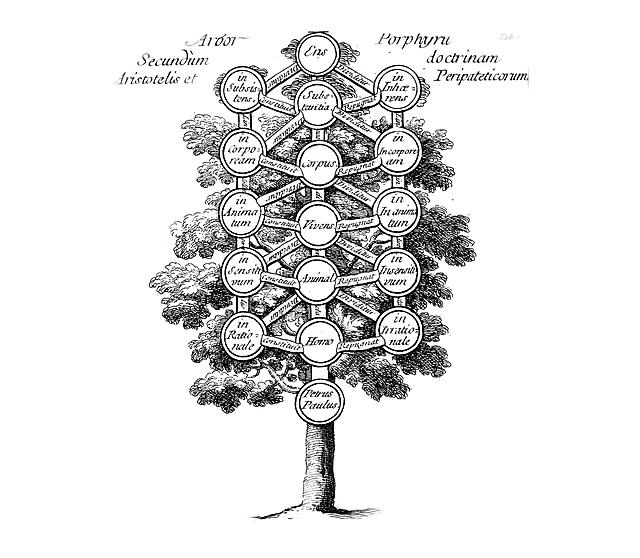
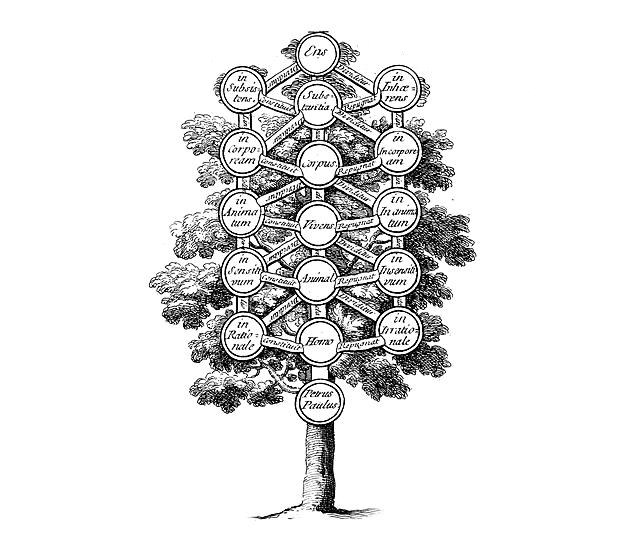
Work pages: name and year in the facts list; Categories plate without its lettering; bar in the column on every page
John, 14 Nov:
- Facts list shows name and year only (publisher goes to full entries at
  the page foot, next commit); Jowett keeps 'rev.', drops Ross.
- Ellis is a 1912 reprint, not a revision: '(1776; repr. 1912)'.
- Categories plate: the lettering outside the tree painted out of the
  shipped desk and phone cuts (the dark cut-out already omitted it); ink
  box re-measured to the tree; plate hashes updated.
- The bar keeps to the 1168px column on search and lexicon too (b.css,
  one rule); the logo no longer jumps between pages at wide widths.
- De Mirabilibus: short title in the home list (new listTitle field).

Changed region(s): [[0.5938, 0.0609, 0.8438, 0.1523], [0.1875, 0.0609, 0.375, 0.1523]]

diff --git a/shared/lib/works.ts b/shared/lib/works.ts
@@ -48,6 +48,7 @@ export interface Work {
   narrator?: string;
   id: string;       // slug + data dir, e.g. 'EN'
   title: string;
+  listTitle?: string;   // shorter title for the home page's list (John, 14 Nov: De Mirabilibus)
   greekTitle?: string;  // polytonic Greek title, shown in the print masthead
   abbr: string;     // display abbreviation (may differ from id styling)
   author: string;
@@ -701,7 +702,7 @@ export const WORKS: Work[] = [
     // divisions match the Greek spine exactly (13/12/18/16/12/8/17/7).
     translations: [
       { id: 'jowett', name: 'Benjamin Jowett, rev. W. D. Ross (Oxford, 1921)', short: 'Jowett', slot: 'english' },
-      { id: 'ellis', name: 'William Ellis (1776; rev. 1912)', short: 'Ellis', slot: 'secondary' },
+      { id: 'ellis', name: 'William Ellis (1776; repr. 1912)', short: 'Ellis', slot: 'secondary' },
     ],
     blurb: 'Aristotle on the city, citizenship, constitutions, and the best life.',
   },
@@ -985,6 +986,7 @@ export const WORKS: Work[] = [
   {
     id: 'Mirab',
     title: 'De Mirabilibus Auscultationibus',
+    listTitle: 'De Mirabilibus',
     greekTitle: 'Περὶ θαυμασίων ἀκουσμάτων',
     abbr: 'Mir.',
     author: 'Aristotle',

diff --git a/app/src/lib/edition-label.ts b/app/src/lib/edition-label.ts
@@ -1,0 +1,19 @@
+// The work page's facts list gives each edition as name and year only; the
+// publisher and place go in the full entries at the foot of the page
+// (John, 14 Nov 2026).
+
+// "(Oxford, 1921)" → "(1921)"; "(Budé, 1964–69)" → "(1964–69)";
+// "(Kegan Paul, rev. ed. 1893)" → "(1893)"; a reprint keeps the first date:
+// "(1776; repr. 1912)" → "(1776)". Anything without a year is returned as is.
+export function yearOnly(paren: string): string {
+  const inner = paren.replace(/^\(|\)$/g, '');
+  const first = inner.split(/;\s*repr\./)[0];
+  const year = first.match(/(\d{4}(?:[–-]\d{2,4})?)\s*$/)?.[1];
+  return year ? `(${year})` : paren;
+}
+
+// "Ross (OCT, 1957)" → "Ross (1957)"; "Fobes (1919)" → "Fobes (1919)".
+export function nameYear(short: string): string {
+  const m = short.match(/^(.*?) (\(.*\))$/);
+  return m ? `${m[1]} ${yearOnly(m[2])}` : short;
+}

diff --git a/shared/styles/b.css b/shared/styles/b.css
@@ -672,6 +672,9 @@ body.home { margin: 0; padding: 0; max-width: none; }
    44px under it. Plates and the bust are cut to their ink box (--ix, --iy,
    --iw, --ih: plates.json, in the plate's own 1280×914 pixels). */
 @media (min-width: 961px) {
+  /* The bar keeps to the 1168px column on every page (John, 14 Nov: the logo
+     jumped from x=376 to 72 between home and search at 1920). */
+  .dir-b .b-nav { padding-inline: max(72px, calc((100% - 1168px) / 2)); }
   .dir-b:where(.pg-home, .pg-work) .b-page { max-width: 1312px; margin-inline: auto; }
   .dir-b:where(.pg-home, .pg-work) .b-foot { margin: 0 72px; padding-left: 0; padding-right: 0; }
   .dir-b:where(.pg-home, .pg-work) .b-top { display: grid; grid-template-columns: repeat(3, minmax(0, 1fr)); column-gap: 40px; margin: 0 72px; padding-bottom: 44px; }

diff --git a/app/src/__tests__/edition-label.test.ts b/app/src/__tests__/edition-label.test.ts
@@ -1,0 +1,24 @@
+import { describe, expect, it } from 'vitest';
+import { nameYear, yearOnly } from '../lib/edition-label';
+
+describe('yearOnly', () => {
+  it.each([
+    ['(Oxford, 1921)', '(1921)'],
+    ['(Budé, 1964–69)', '(1964–69)'],
+    ['(Kegan Paul, rev. ed. 1893)', '(1893)'],
+    ['(Macmillan, 4th ed. 1907)', '(1907)'],
+    ['(1776; repr. 1912)', '(1776)'],
+    ['(1812)', '(1812)'],
+    ['(Loeb)', '(Loeb)'],
+  ])('%s → %s', (a, b) => expect(yearOnly(a)).toBe(b));
+});
+
+describe('nameYear', () => {
+  it.each([
+    ['Ross (OCT, 1957)', 'Ross (1957)'],
+    ['Busse (CAG IV.1, 1887)', 'Busse (1887)'],
+    ['Lorimer (Les Belles Lettres, 1933)', 'Lorimer (1933)'],
+    ['Fobes (1919)', 'Fobes (1919)'],
+    ['Ross', 'Ross'],
+  ])('%s → %s', (a, b) => expect(nameYear(a)).toBe(b));
+});

diff --git a/app/src/lib/nav.ts b/app/src/lib/nav.ts
@@ -44,7 +44,7 @@ export const transParts = (name: string) => {
   const rest = m?.[2] || '';
   const year = /^(.*?)[,\s]+(\d{4}(?:[–-]\d{2,4})?)$/.exec(rest);
   const prefix = year?.[1].trim().replace(/,$/, '') || '';
-  // A bare ‘rev.’ keeps its year attached; ‘rev. ed.’ takes the kit’s comma.
-  const formatted = year ? `${prefix}${/\brev\.$/.test(prefix) ? ' ' : ', '}${year[2]}` : rest;
+  // A bare ‘rev.’ or ‘repr.’ keeps its year attached; ‘rev. ed.’ takes the kit’s comma.
+  const formatted = year ? `${prefix}${/\b(?:rev|repr)\.$/.test(prefix) ? ' ' : ', '}${year[2]}` : rest;
   return {who: m ? m[1] : name, rest: formatted};
 };

diff --git a/app/src/__tests__/nav.test.ts b/app/src/__tests__/nav.test.ts
@@ -94,7 +94,7 @@ describe('bookSpan', () => {
 describe('transParts', () => {
   it.each([
     ['F. H. Peters (Kegan Paul, rev. ed. 1893)', 'F. H. Peters, Kegan Paul, rev. ed., 1893'],
-    ['William Ellis (1776; rev. 1912)', 'William Ellis, 1776; rev. 1912'],
+    ['William Ellis (1776; repr. 1912)', 'William Ellis, 1776; repr. 1912'],
   ])('formats %s for English facts', (name, expected) => {
     const {who, rest} = transParts(name);
     expect([who, rest].filter(Boolean).join(', ')).toBe(expected);
